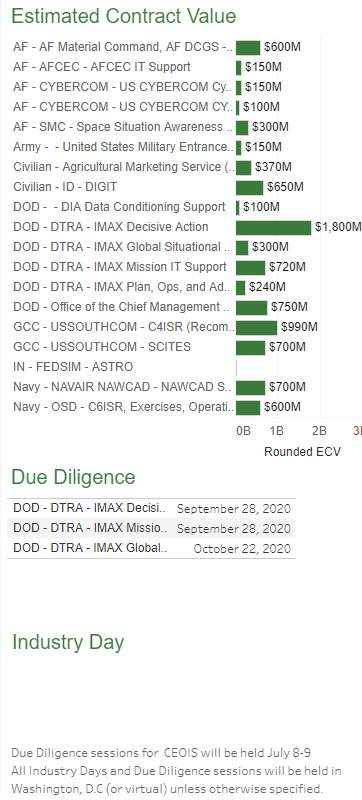
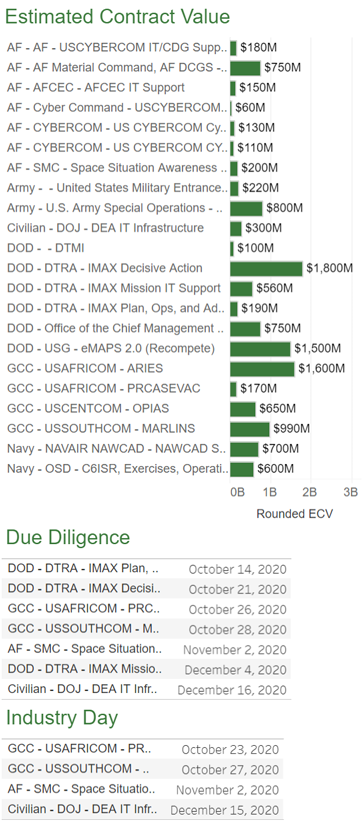
Updated charts

Changed region(s): [[0.0, 0.0, 1.0, 1.0], [0.9116, 0.5625, 0.9724, 0.625], [0.9724, 0.5312, 1.0, 0.5625]]

diff --git a/_includes/industry.html b/_includes/industry.html
@@ -27,7 +27,7 @@
         <h2 class="whitetext">Opportunities</h2>
         <p>Active procurements listed are in the stage of collecting requirements and solicitation development with the client. All official notifications will be transmitted via eBuy. For updates, visit our Leadership page to identify the designated point of contact. </p>
         
-        <a href="https://public.tableau.com/views/FEDSIMAcquisitionDashboarditan/ActiveProcurements?:language=en&:retry=yes&:display_count=y&:toolbar=n&:origin=viz_share_link" onClick="return confirm('This link will take you to the FEDSIM Opportunities Chart on the Tableau website, which is managed by Tableau.')" class="external" target="_new">{% asset chart.png alt="Opportunities Chart" %}</a>
+        <a href="https://public.tableau.com/views/AcquisitionDashboardV3/ActiveProcurements?:language=en&:retry=yes&:display_count=y&:origin=viz_share_link" onClick="return confirm('This link will take you to the FEDSIM Opportunities Chart on the Tableau website, which is managed by Tableau.')" class="external" target="_new">{% asset chart.png alt="Opportunities Chart" %}</a>
     
         <p>Partnership opportunities with private sector clients are critical for FEDSIM's ongoing development and understanding of the private sector. Throughout our evolution, FEDSIM has maintained an open, mutually beneficial relationship with industry partners based on transparency and clear communication. </p>      
     </div>
@@ -36,7 +36,7 @@
         <h2 class="whitetext">Opportunities</h2>
         <p>Active procurements listed are in the stage of collecting requirements and solicitation development with the client. All official notifications will be transmitted via eBuy. For updates, visit our Leadership page to identify the designated point of contact. </p>
         
-        <a href="https://public.tableau.com/views/FEDSIMAcquisitions-Mobile/ActiveProcurements?:language=en&:display_count=y&:toolbar=n&:origin=viz_share_link" onClick="return confirm('This link will take you to the FEDSIM Opportunities Chart on the Tableau website, which is managed by Tableau.')" class="external" target="_new">{% asset chart_mobile.png alt="Opportunities Chart" %}</a>
+        <a href="https://public.tableau.com/views/AcquisitionDashboardV3/ActiveProcurements?:language=en&:retry=yes&:display_count=y&:origin=viz_share_link" onClick="return confirm('This link will take you to the FEDSIM Opportunities Chart on the Tableau website, which is managed by Tableau.')" class="external" target="_new">{% asset chart_mobile.png alt="Opportunities Chart" %}</a>
     
         <p>Partnership opportunities with private sector clients are critical for FEDSIM's ongoing development and understanding of the private sector. Throughout our evolution, FEDSIM has maintained an open, mutually beneficial relationship with industry partners based on transparency and clear communication. </p>      
     </div>
